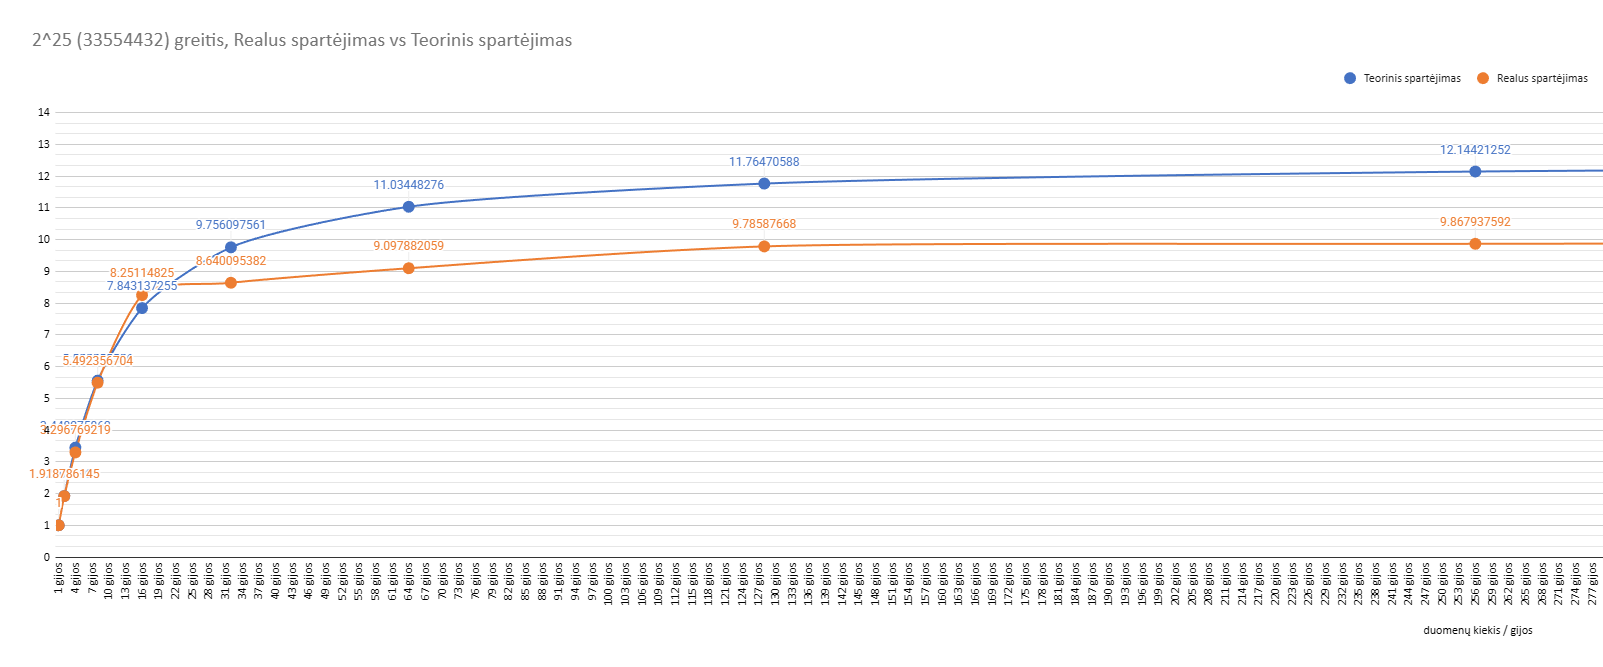
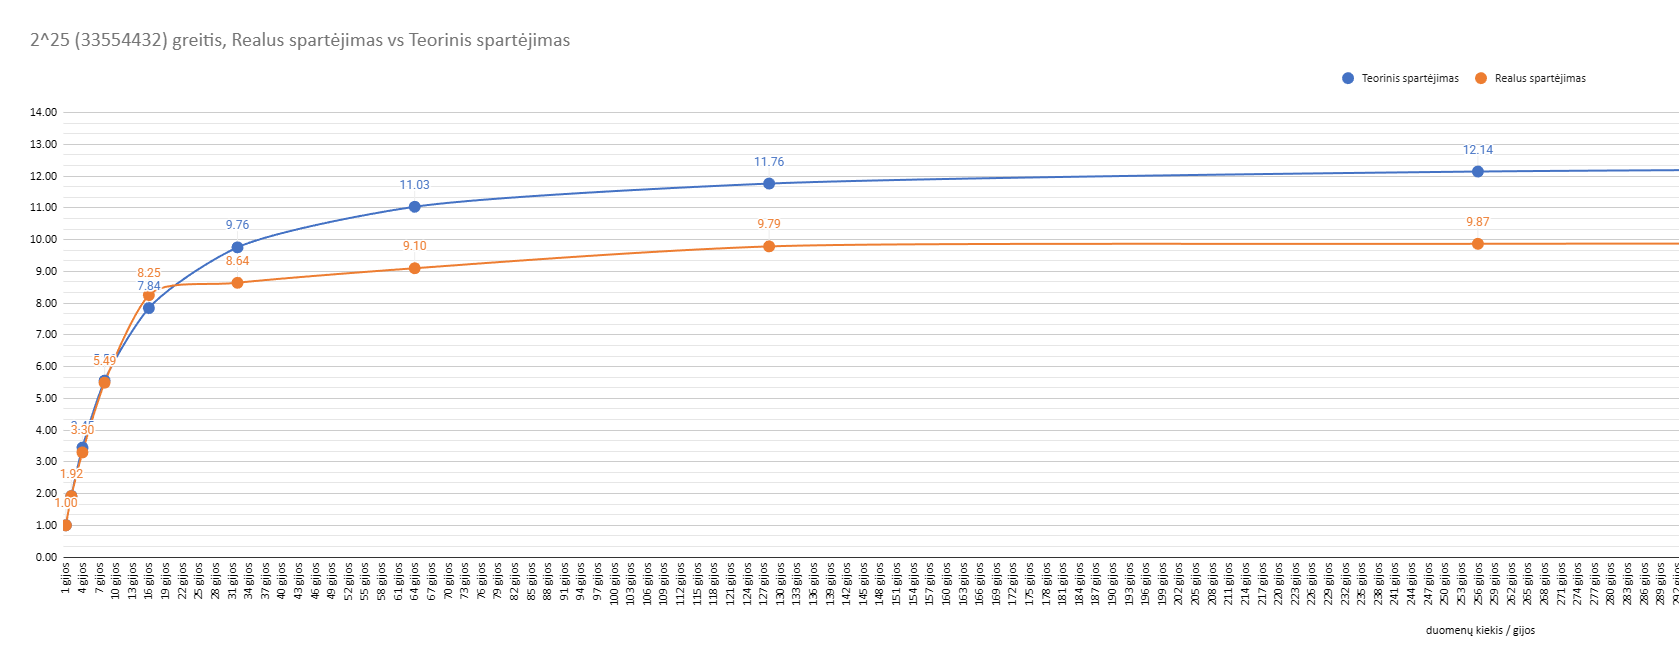
lab4 testing data

diff --git a/src/lab4/mano/README.md b/src/lab4/mano/README.md
@@ -17,23 +17,3 @@ mpirun programa4 64 16777216 fast
 7. `tail -f slurm-JOBPID.out`
 
 `jobid=$(sbatch --parsable job.sh); squeue -j "$jobid"`
-
-
-Kaip matome iš grafiko, realus spartėjimas nuo 1 iki 16 gijų beveik toks pat. Bet nuo 32 gijų iki 512 jau atsilieka 1-3 kartais.
-
-Tiek teorinis, tiek realus spartėjimas suplokštėja ir nebespartėja
-![chart1.png](results/chart1.png)
-
-|                               |           | spartinimas |
-|-------------------------------|-----------|-------------|
-| n                             | 33554432  |             |
-| tserial (sequantial time (T1) | 838860800 |             |
-| tparalel 2                    | 436207616 | 1.923076923 |
-| tparalel 4                    | 243269632 | 3.448275862 |
-| spartinimas 8iems             | 150994944 | 5.555555556 |
-| spartinimas 16iems            | 106954752 | 7.843137255 |
-| spartinimas 32iems            | 85983232  | 9.756097561 |
-| spartinimas 64iems            | 76021760  | 11.03448276 |
-| spartinimas 128iems           | 71303168  | 11.76470588 |
-| spartinimas 256iems           | 69074944  | 12.14421252 |
-| spartinimas 512iems           | 68026368  | 12.33140655 |

diff --git a/src/lab4/mano/results/README.md b/src/lab4/mano/results/README.md
@@ -1,0 +1,18 @@
+Kaip matome iš grafiko, realus spartėjimas nuo 1 iki 16 gijų beveik toks pat. Bet nuo 32 gijų iki 512 jau atsilieka 1-3 kartais.
+
+Tiek teorinis, tiek realus spartėjimas suplokštėja ir nebespartėja
+![chart1.png](./chart1.png)
+
+|                               |           | teorinis spartinimas |
+|-------------------------------|-----------|----------------------|
+| n                             | 33554432  |                      |
+| tserial (sequantial time (T1) | 838860800 |                      |
+| tparalel 2                    | 436207616 | 1.923076923          |
+| tparalel 4                    | 243269632 | 3.448275862          |
+| spartinimas 8iems             | 150994944 | 5.555555556          |
+| spartinimas 16iems            | 106954752 | 7.843137255          |
+| spartinimas 32iems            | 85983232  | 9.756097561          |
+| spartinimas 64iems            | 76021760  | 11.03448276          |
+| spartinimas 128iems           | 71303168  | 11.76470588          |
+| spartinimas 256iems           | 69074944  | 12.14421252          |
+| spartinimas 512iems           | 68026368  | 12.33140655          |
